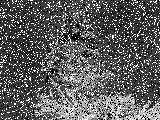
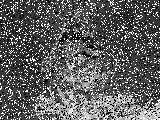
average filter

diff --git a/dip2_py/dip2.py b/dip2_py/dip2.py
@@ -12,6 +12,7 @@ from enum import Enum, auto
 from typing import Dict
 
 import numpy as np
+from cv2.gapi import kernel
 
 
 class NoiseType(Enum):
@@ -45,12 +46,11 @@ noise_reduction_algorithm_names: Dict[NoiseReductionAlgorithm, str] = {
 def spatial_convolution(src: np.ndarray, kernel: np.ndarray) -> np.ndarray:
     """
     Convolution in spatial domain.
-
     Performs spatial convolution of image and filter kernel.
     """
     # TO DO !!
-
-    return np.array(src, copy=True)
+    result = ((src * np.flip(kernel)).sum()/kernel.size).astype(np.int8)
+    return np.array(result, copy=True)
 
 
 def average_filter(src: np.ndarray, k_size: int) -> np.ndarray:
@@ -60,9 +60,22 @@ def average_filter(src: np.ndarray, k_size: int) -> np.ndarray:
     """
     # TO DO !!
     print("debug")
+    pad_size = int(k_size/2)
+    padded_src = np.pad(src, (pad_size, pad_size), mode="reflect")
 
+    height = src.shape[0]
+    width = src.shape[1]
+    filtered_img = np.empty((height, width), dtype=np.uint8)
 
-    return np.array(src, copy=True)
+    kernel = np.ones((k_size, k_size), dtype=np.uint8)
+
+    for y in range(height):
+        for x in range(width):
+            crapped = padded_src[y:y+k_size, x:x+k_size]
+            filtered_img[y,x] = spatial_convolution(crapped, kernel)
+
+    return np.array(filtered_img, copy=True)
+
 
 
 def median_filter(src: np.ndarray, k_size: int) -> np.ndarray:
